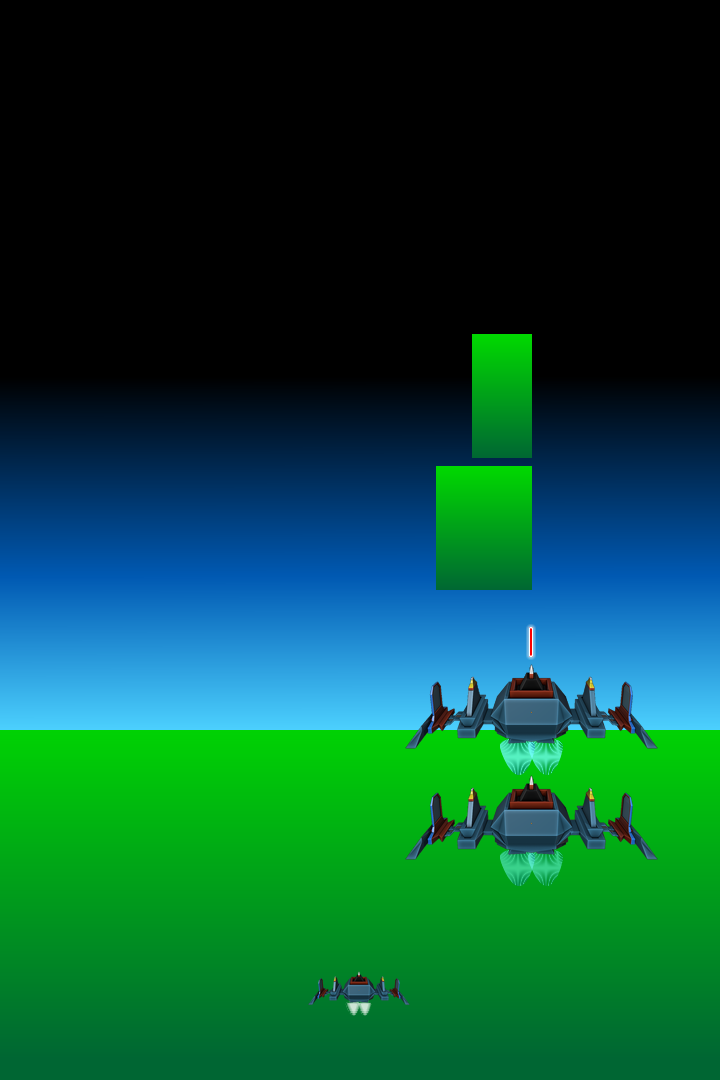
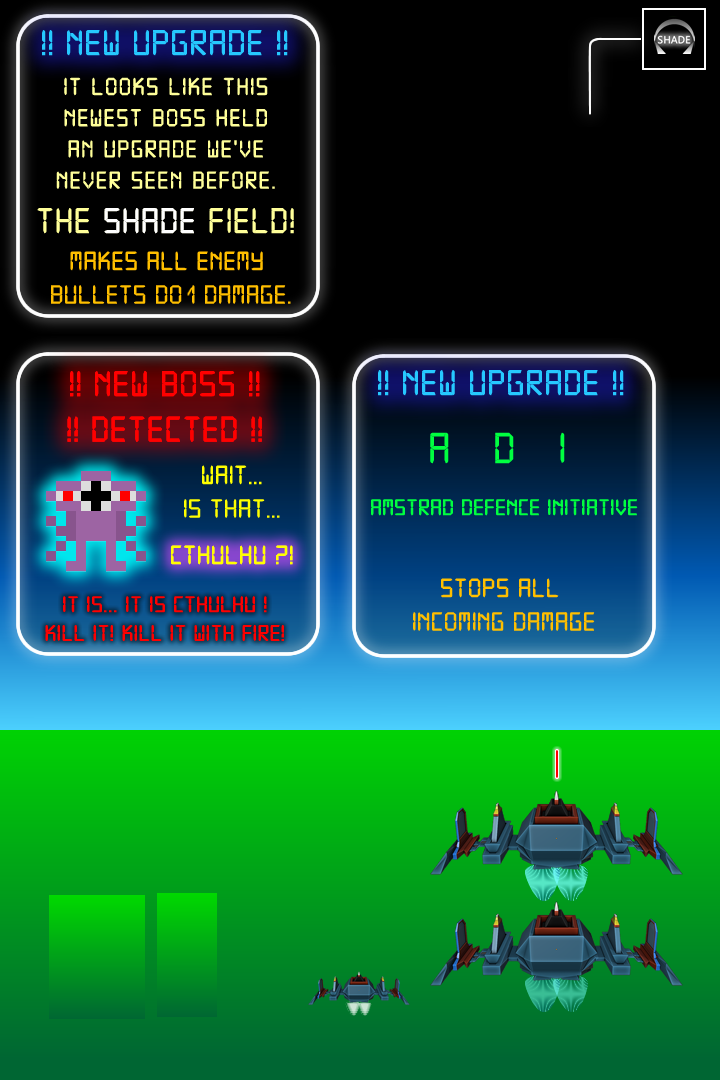
Added Highlighter
For Cthulhu, SHADE and ADI Field

diff --git a/js/_vars.js b/js/_vars.js
@@ -934,13 +934,15 @@ var vars = {
                     let upG = scene.physics.add.sprite(x,y,'upgradesS').setScale(0.4).anims.play('shadeField');
                     upG.setData('upgrade', 'fx_SHADE');
                     shipPowerUpGroup.add(upG);
+                    let paused = false;
                     if (ssV.SHADE.seenBefore===false) {
                         ssV.SHADE.seenBefore = true;
+                        paused=true;
                         // highlight the bonus
                         vars.UI.highlightObject(upG);
-                        debugger;
                     }
                     scene.tweens.add({
+                        paused: paused,
                         targets: upG,
                         y: 1000,
                         duration: 2000,
@@ -1074,7 +1076,17 @@ var vars = {
             let gV = vars.game;
             gV.graphics = scene.add.graphics();
             gV.graphics.lineStyle(2, 0xffffff, 1);
+
+            // the box containing the upgrade
             gV.graphics.strokeRoundedRect(x-(w/2*scale), y-(h/2*scale), w*scale, h*scale, 10);
+
+            // the line coming from the box to the info container
+            scale = vars.game.scale;
+            scene.add.image(x-60,y+35, 'highlightsConnector').setName('highlightConnector');
+            // info container
+            scene.add.image(x+55,y+(180+50*scale),'highlights',1).setScale(vars.game.scale*2).setOrigin(1,0.5).setName('highlighted');
+
+            vars.game.pauseForHighlightedObject(); // pause all the things (except stars, coz that would be weird)
         }
     },
 

diff --git a/js/entry.js b/js/entry.js
@@ -93,6 +93,10 @@ function preload() {
     scene.load.spritesheet('upgradesP', 'upgrades/points-ext.png', { frameWidth: 200, frameHeight: 100, margin: 1, spacing: 2 });
     scene.load.spritesheet('upgradesS', 'upgrades/fields-ext.png', { frameWidth: 100, frameHeight: 100, margin: 1, spacing: 2 });
 
+    // HIGHLIGHTS
+    scene.load.spritesheet('highlights', 'UI/highlights.png', { frameWidth: 350, frameHeight: 350 });
+    scene.load.spritesheet('highlightsConnector', 'UI/connectors-ext.png', { frameWidth: 59, frameHeight: 80, margin: 1, spacing: 2 });
+
     // PARTICLES
     scene.load.atlas('particles', 'particles/particles.png', 'particles/particles.json');
     //scene.load.text('enemyPieceJSON', 'particles/enemyPieces.json'); <--- this is the actual config for the enemy piece but implementing it is a dick, so ive faked it... Should probably implement it properly at some point TODO
